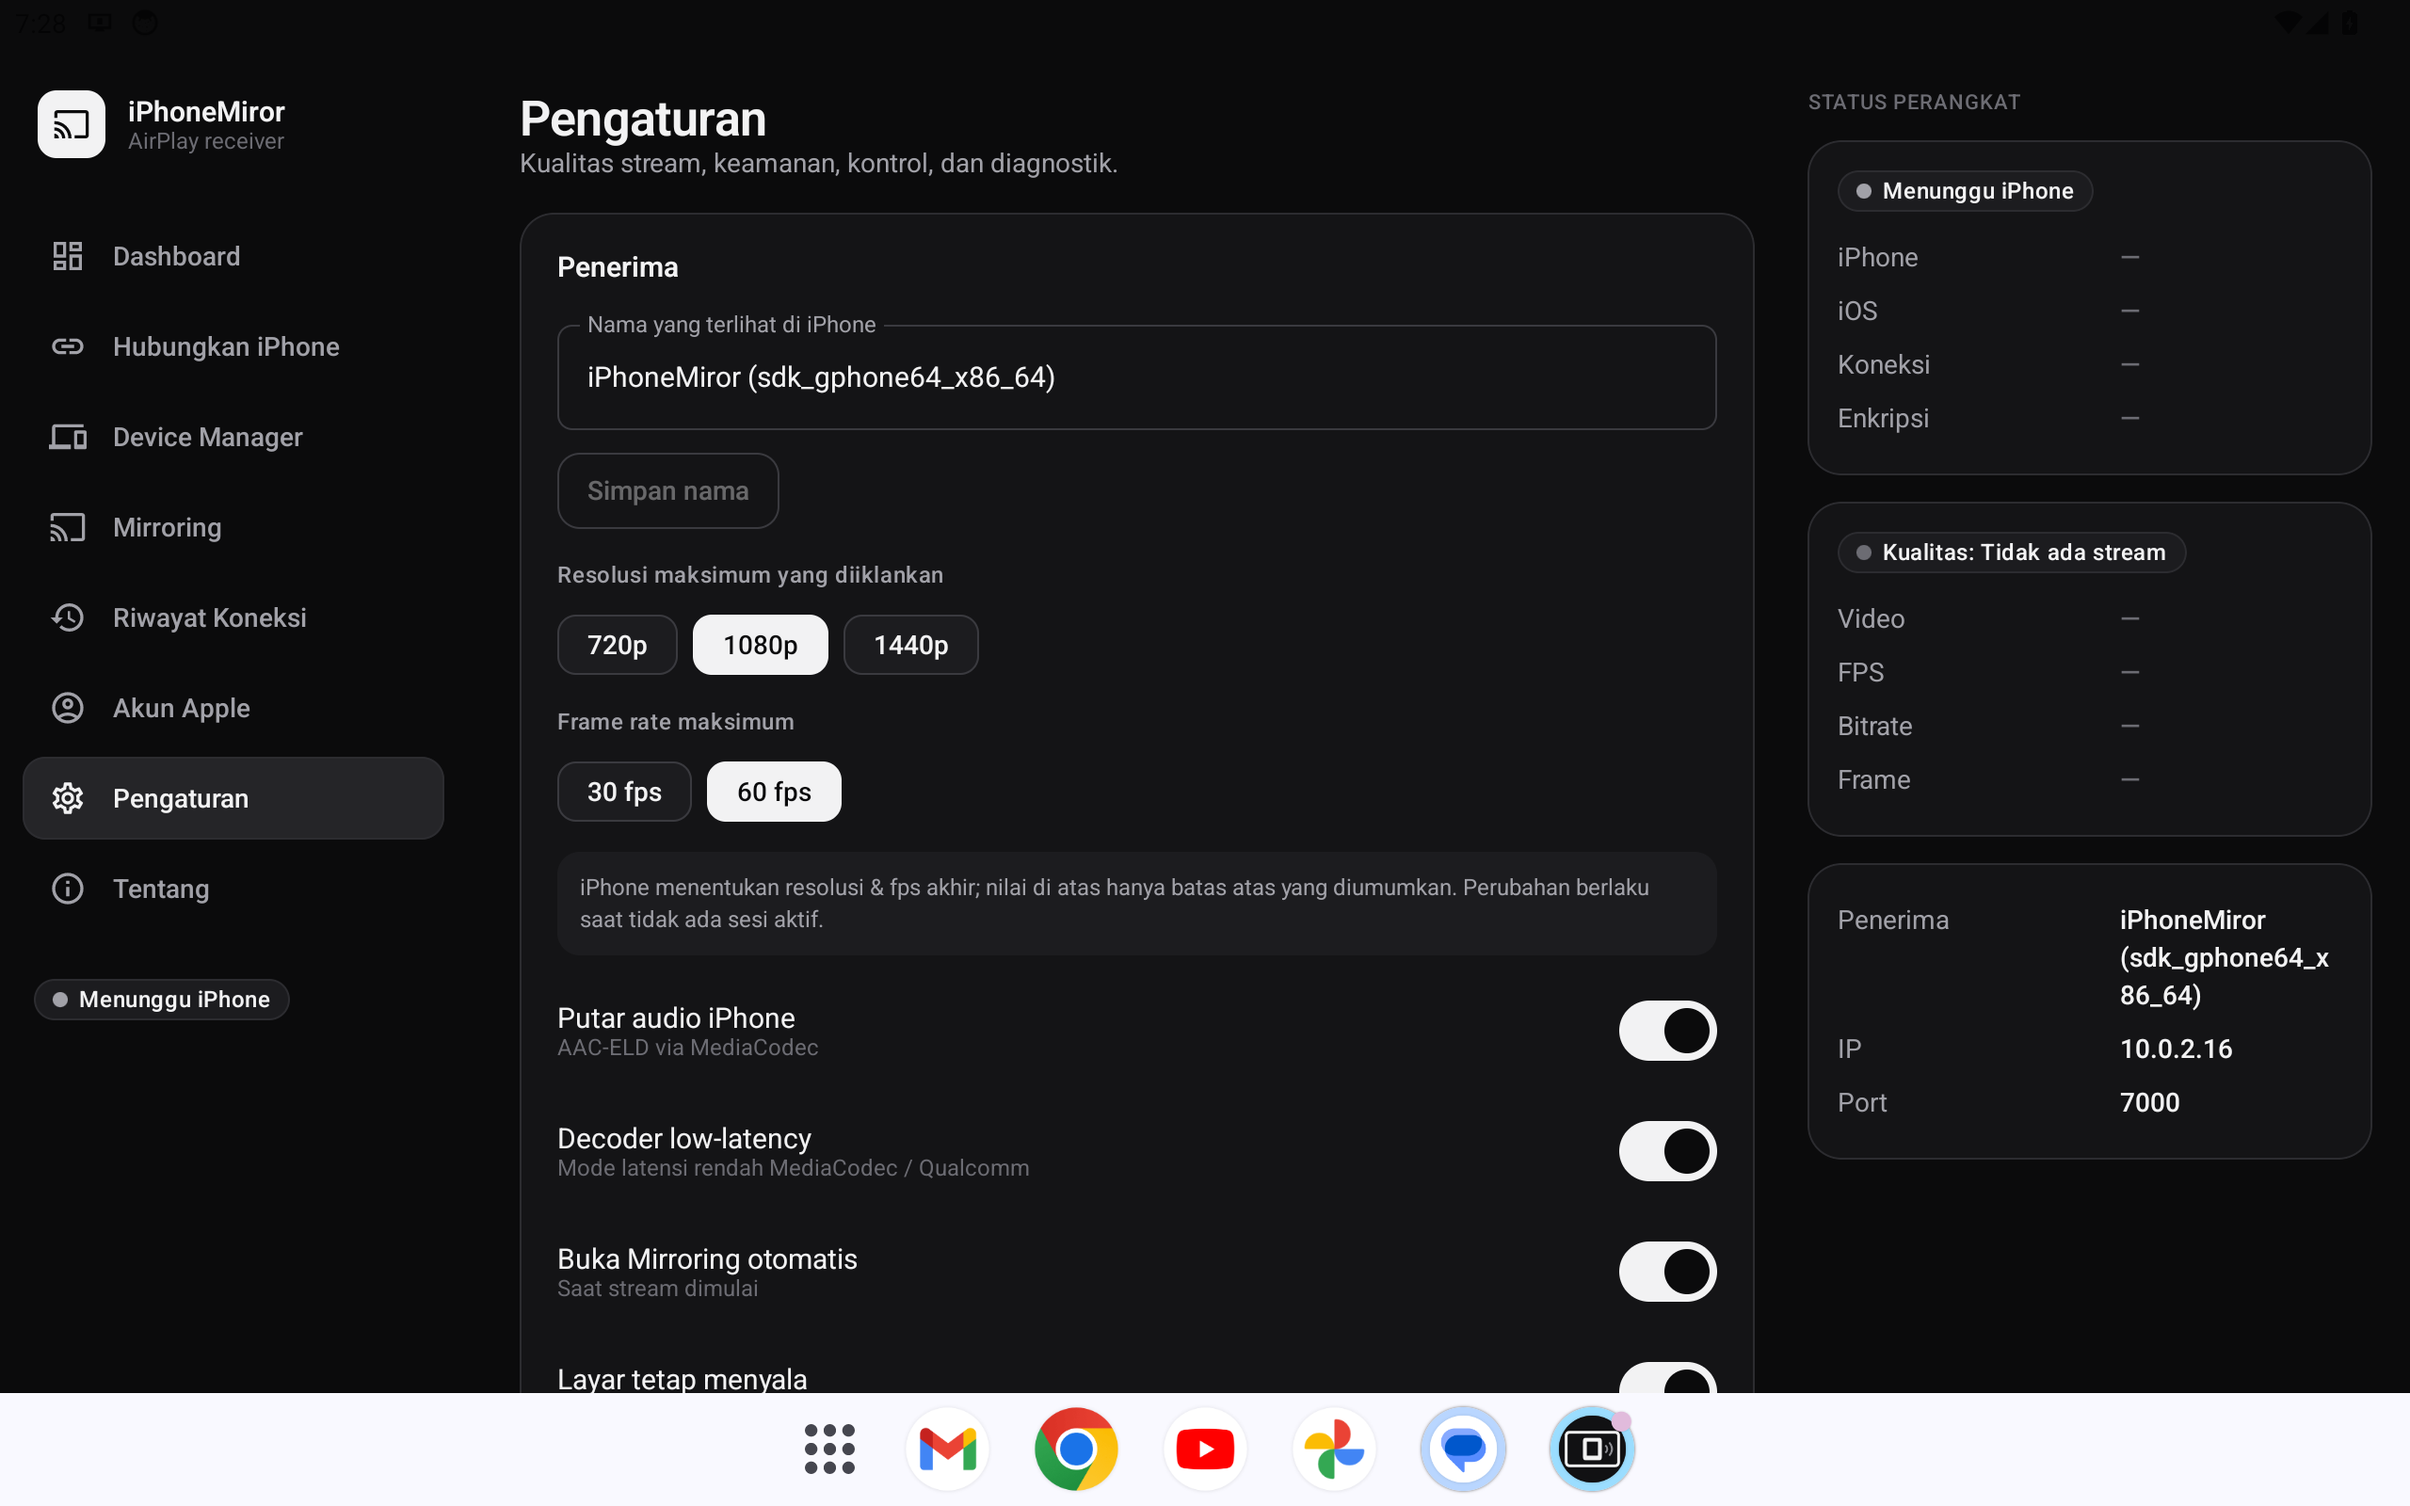
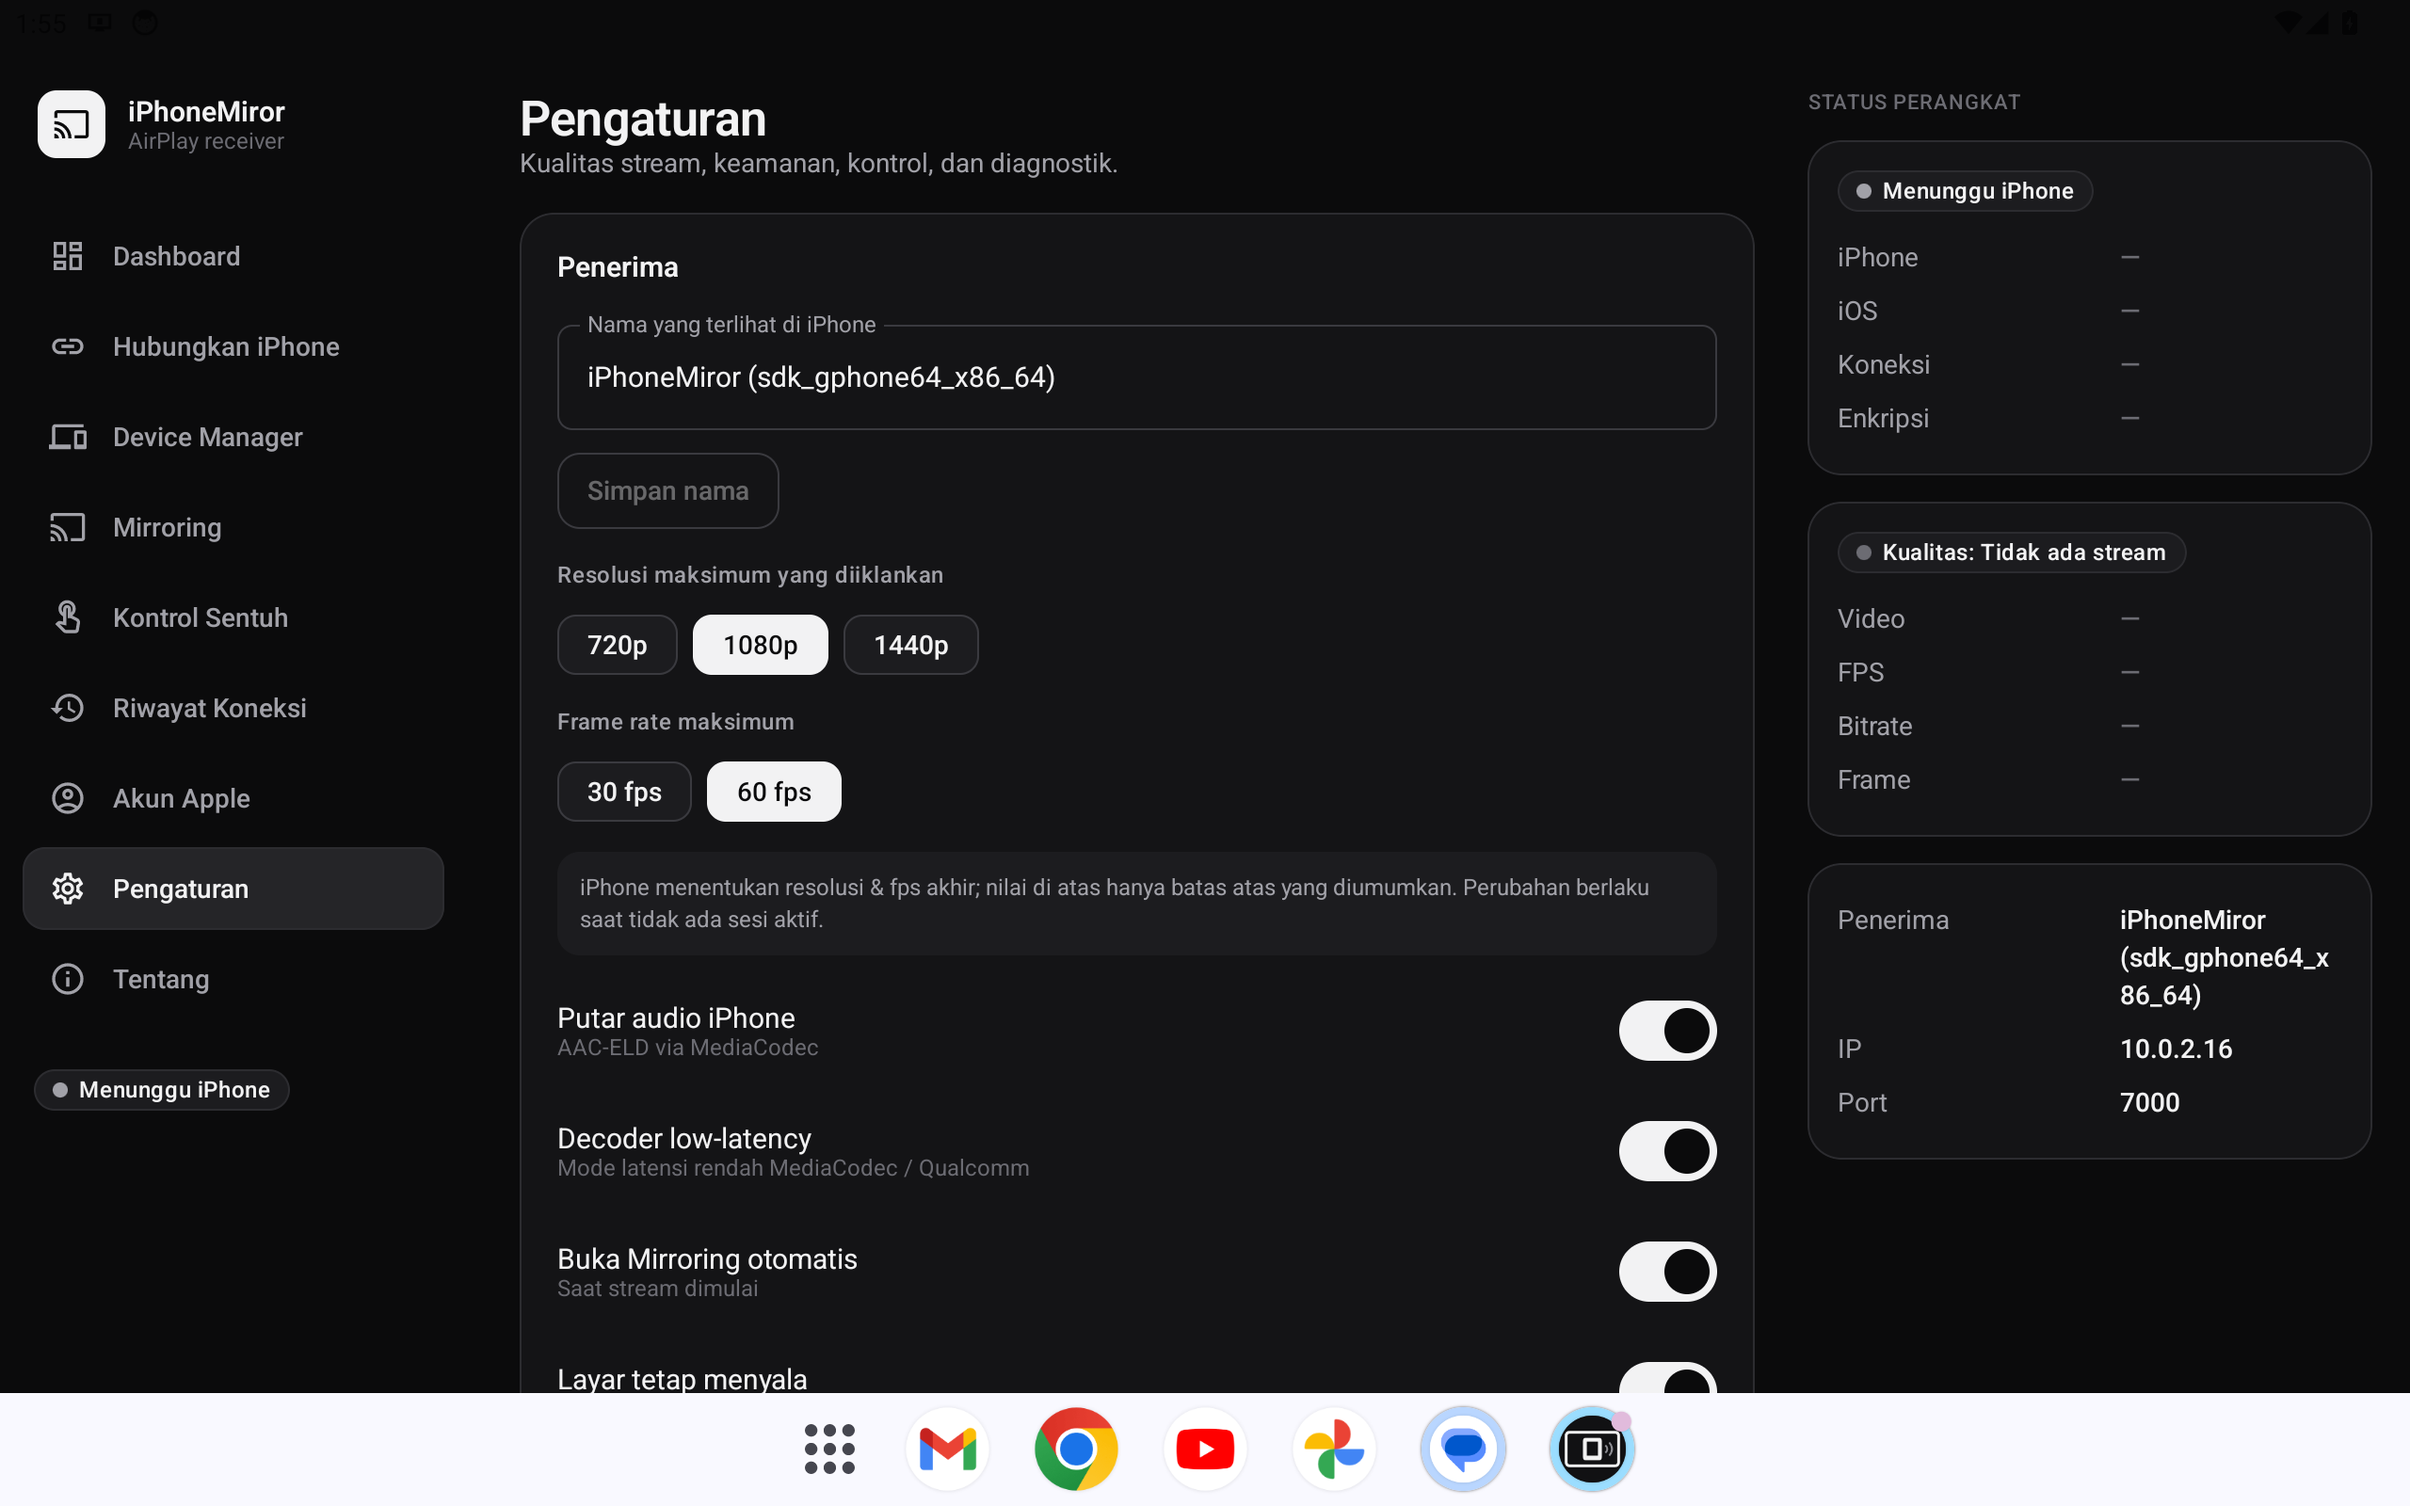
Docs: refresh screenshots incl. Kontrol Sentuh page
Claude-Session: https://claude.ai/code/session_0112CM9u4Dgwj1osgtRFxKNV

Changed region(s): [[0.0, 0.4688, 0.1875, 0.6875], [0.0312, 0.7188, 0.125, 0.75], [0.0625, 0.4062, 0.125, 0.4375]]

diff --git a/docs/COMPATIBILITY.md b/docs/COMPATIBILITY.md
@@ -7,7 +7,7 @@
 
 | Perangkat | Android | Status | Catatan |
 |---|---|---|---|
-| Emulator Pixel Tablet (CI) | 14 (API 34, x86_64) | ✅ Lulus tes otomatis | Self-test AirPlay loopback: pair-verify OK, 167/167 frame terdekode, 0 galat (`c2.goldfish.h264.decoder`). PSS ±104–114 MB, heap Java tidak bertambah setelah 2 sesi. Tes UI navigasi 8 halaman lulus. APK rilis (R8) berjalan tanpa crash. |
+| Emulator Pixel Tablet (CI) | 14 (API 34, x86_64) | ✅ Lulus tes otomatis | Self-test AirPlay loopback: pair-verify OK, 167/167 frame terdekode, 0 galat (`c2.goldfish.h264.decoder`). PSS ±104–114 MB, heap Java tidak bertambah setelah 2 sesi. Tes UI navigasi 9 halaman + status Touch Control *Unsupported* tanpa jalur input lulus (4/4). APK rilis (R8) berjalan tanpa crash. |
 | Xiaomi Pad 6 (SD 870, Adreno 650) | 13–15 (HyperOS) | ⏳ Belum diuji | Target utama. Jalankan *Pengaturan → Uji mandiri penerima* lalu laporkan. |
 | Tablet MediaTek | 13+ | ⏳ Belum diuji | Decoder hardware MediaTek dipilih otomatis; ekstensi low-latency vendor hanya untuk Qualcomm. |
 

diff --git a/README.md b/README.md
@@ -17,6 +17,8 @@ Diambil otomatis oleh CI pada emulator **Pixel Tablet, Android 14, 2560×1600** 
 | ![](docs/screenshots/02-dashboard-receiver-on.png) | ![](docs/screenshots/03-connect.png) |
 | **Mirroring — self-test** (kartu uji lokal, *bukan* iPhone) | **Pengaturan** |
 | ![](docs/screenshots/10-mirroring-self-test.png) | ![](docs/screenshots/07-settings.png) |
+| **Kontrol Sentuh** (tanpa jalur input → *Unsupported* + alasan) | **Mirroring — Touch Mode** |
+| ![](docs/screenshots/13-touch-control.png) | ![](docs/screenshots/10-mirroring-self-test.png) |
 | **Akun Apple** | **Device Manager** |
 | ![](docs/screenshots/06-apple-account.png) | ![](docs/screenshots/04-device-manager.png) |
 
